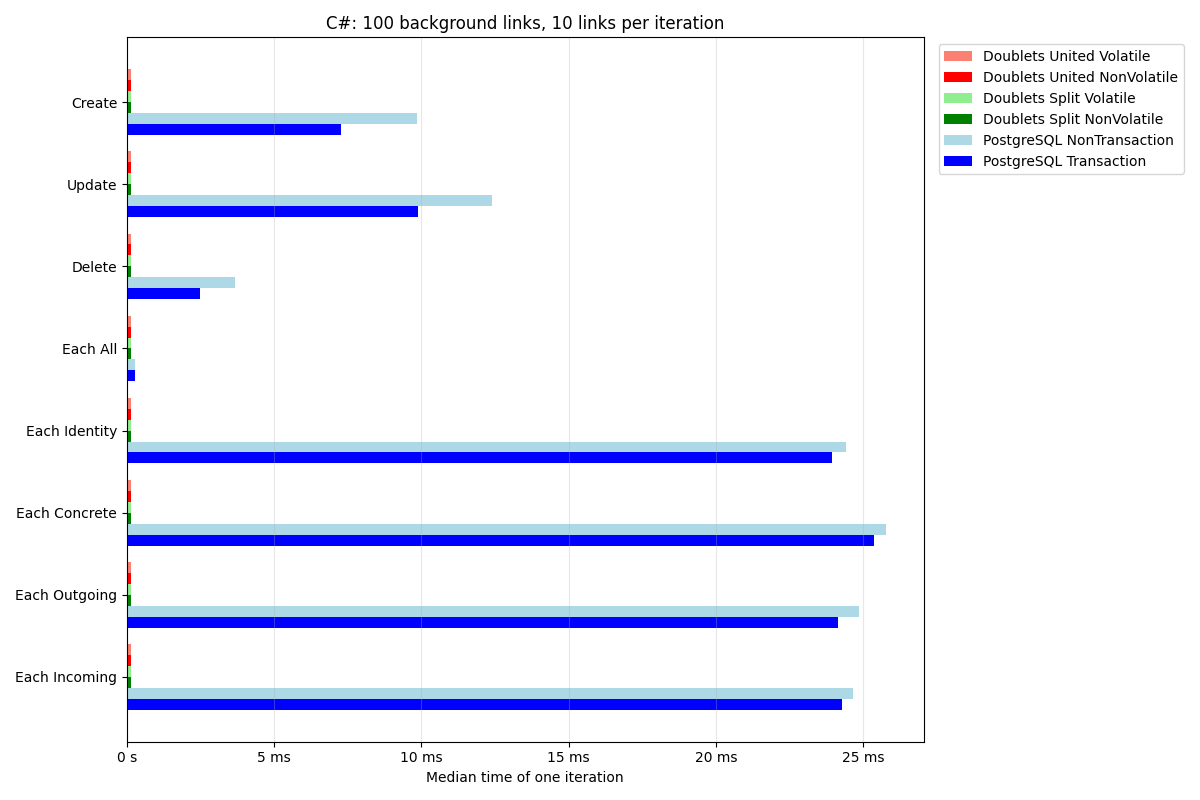
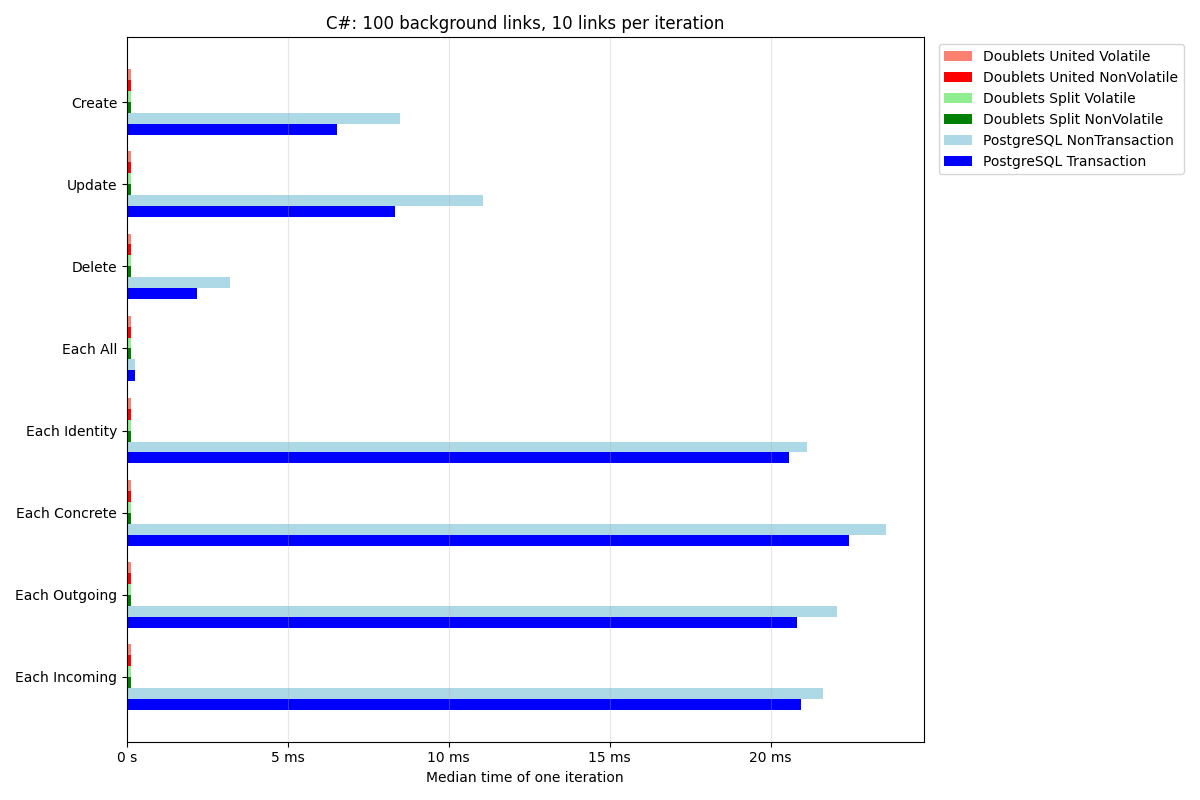
Update Rust and C# benchmark results

diff --git a/README.md b/README.md
@@ -30,41 +30,77 @@ Every generated table records the server and library versions, CPU, UTC date and
 
 #### Rust: 100 background links, 10 links per iteration
 
-_Median time of one iteration with 10 links. PostgreSQL 17.6 (Debian 17.6-2.pgdg13+1) through postgres 0.19.7; doublets 0.3.0. CPU AMD EPYC 7763 64-Core Processor (PostgreSQL) and AMD EPYC 9V45 96-Core Processor (Doublets), [GitHub Actions run](https://github.com/linksplatform/Comparisons.PostgreSQLVSDoublets/actions/runs/37548090422) on 2026-10-06T23:46:07+00:00._
+_Median time of one iteration with 10 links. PostgreSQL 17.6 (Debian 17.6-2.pgdg13+1) through postgres 0.19.7; doublets 0.3.0. CPU AMD EPYC 9V74 80-Core Processor, [GitHub Actions run](https://github.com/linksplatform/Comparisons.PostgreSQLVSDoublets/actions/runs/37549306074) on 2026-10-06T23:58:58+00:00._
 
 | Operation | Doublets United Volatile | Doublets United NonVolatile | Doublets Split Volatile | Doublets Split NonVolatile | PostgreSQL NonTransaction | PostgreSQL Transaction |
 | --- | ---: | ---: | ---: | ---: | ---: | ---: |
-| Create | 514 ns (21,300× faster) | 512 ns (21,400× faster) | 421 ns (26,000× faster) | 416 ns (26,300× faster) | 13.8 ms | **10.9 ms** |
-| Update | 1.69 µs (8,440× faster) | 1.62 µs (8,760× faster) | 583 ns (24,400× faster) | 583 ns (24,400× faster) | 17.5 ms | **14.2 ms** |
-| Delete | 729 ns (5,000× faster) | 736 ns (4,960× faster) | 771 ns (4,730× faster) | 796 ns (4,580× faster) | 5.02 ms | **3.65 ms** |
-| Each All | 36 ns (10,300× faster) | 35 ns (10,600× faster) | 143 ns (2,600× faster) | 142 ns (2,620× faster) | 390 µs | **371 µs** |
-| Each Identity | 2.42 µs (14,600× faster) | 2.39 µs (14,800× faster) | 2.44 µs (14,500× faster) | 2.44 µs (14,500× faster) | 36.5 ms | **35.4 ms** |
-| Each Concrete | 2.85 µs (12,800× faster) | 2.83 µs (12,900× faster) | 3.12 µs (11,700× faster) | 3.13 µs (11,700× faster) | 37.7 ms | **36.6 ms** |
-| Each Outgoing | 3.39 µs (10,400× faster) | 3.34 µs (10,600× faster) | 2.72 µs (13,000× faster) | 2.73 µs (13,000× faster) | 36.3 ms | **35.4 ms** |
-| Each Incoming | 3.42 µs (10,400× faster) | 3.37 µs (10,600× faster) | 2.76 µs (12,900× faster) | 2.75 µs (13,000× faster) | 36.9 ms | **35.6 ms** |
+| Create | 846 ns (8,260× faster) | 838 ns (8,340× faster) | 721 ns (9,690× faster) | 722 ns (9,680× faster) | 9.36 ms | **6.99 ms** |
+| Update | 2.54 µs (3,600× faster) | 2.58 µs (3,550× faster) | 819 ns (11,200× faster) | 824 ns (11,100× faster) | 11.9 ms | **9.14 ms** |
+| Delete | 1.18 µs (2,010× faster) | 1.17 µs (2,040× faster) | 1.33 µs (1,780× faster) | 1.3 µs (1,830× faster) | 3.49 ms | **2.37 ms** |
+| Each All | 54 ns (4,700× faster) | 54 ns (4,700× faster) | 258 ns (984× faster) | 240 ns (1,060× faster) | 272 µs | **254 µs** |
+| Each Identity | 3.41 µs (6,520× faster) | 3.38 µs (6,570× faster) | 3.46 µs (6,430× faster) | 3.46 µs (6,430× faster) | 23.8 ms | **22.2 ms** |
+| Each Concrete | 4.3 µs (5,570× faster) | 4.27 µs (5,600× faster) | 4.66 µs (5,140× faster) | 4.65 µs (5,150× faster) | 25.1 ms | **23.9 ms** |
+| Each Outgoing | 5.08 µs (4,480× faster) | 5.04 µs (4,520× faster) | 3.8 µs (5,980× faster) | 3.8 µs (5,990× faster) | 23.9 ms | **22.8 ms** |
+| Each Incoming | 5.06 µs (4,410× faster) | 5.06 µs (4,410× faster) | 3.88 µs (5,760× faster) | 3.88 µs (5,750× faster) | 24 ms | **22.3 ms** |
 
 ![Rust, 100 background links, 10 links per iteration, linear scale](Docs/bench_rust_100.png)
 ![Rust, 100 background links, 10 links per iteration, log scale](Docs/bench_rust_log_scale_100.png)
+
+#### Rust: 1,000 background links, 100 links per iteration
+
+_Median time of one iteration with 100 links. PostgreSQL 17.6 (Debian 17.6-2.pgdg13+1) through postgres 0.19.7; doublets 0.3.0. CPU AMD EPYC 9V45 96-Core Processor (PostgreSQL) and INTEL(R) XEON(R) PLATINUM 8573C (Doublets), [GitHub Actions run](https://github.com/linksplatform/Comparisons.PostgreSQLVSDoublets/actions/runs/37549306074) on 2026-10-06T23:58:48+00:00._
+
+| Operation | Doublets United Volatile | Doublets United NonVolatile | Doublets Split Volatile | Doublets Split NonVolatile | PostgreSQL NonTransaction | PostgreSQL Transaction |
+| --- | ---: | ---: | ---: | ---: | ---: | ---: |
+| Create | 10.3 µs (4,730× faster) | 10.3 µs (4,720× faster) | 6.46 µs (7,550× faster) | 6.37 µs (7,650× faster) | 89.6 ms | **48.8 ms** |
+| Update | 33 µs (1,870× faster) | 33.8 µs (1,820× faster) | 7.78 µs (7,920× faster) | 7.74 µs (7,960× faster) | 91 ms | **61.6 ms** |
+| Delete | 17.3 µs (866× faster) | 17.2 µs (868× faster) | 11.8 µs (1,270× faster) | 11.9 µs (1,260× faster) | 27.2 ms | **15 ms** |
+| Each All | 682 ns (571× faster) | 372 ns (1,050× faster) | 2.07 µs (188× faster) | 2.08 µs (188× faster) | 398 µs | **389 µs** |
+| Each Identity | 28.9 µs (5,150× faster) | 28.9 µs (5,150× faster) | 28.6 µs (5,210× faster) | 28.8 µs (5,170× faster) | **149 ms** | 149 ms |
+| Each Concrete | 69.9 µs (2,220× faster) | 69.9 µs (2,220× faster) | 43.5 µs (3,570× faster) | 43.1 µs (3,600× faster) | 157 ms | **155 ms** |
+| Each Outgoing | 82.3 µs (1,800× faster) | 82.2 µs (1,800× faster) | 36.6 µs (4,030× faster) | 36.2 µs (4,090× faster) | 153 ms | **148 ms** |
+| Each Incoming | 83.2 µs (1,730× faster) | 84.1 µs (1,710× faster) | 34.7 µs (4,140× faster) | 34.9 µs (4,120× faster) | 150 ms | **144 ms** |
+
+![Rust, 1,000 background links, 100 links per iteration, linear scale](Docs/bench_rust_1000.png)
+![Rust, 1,000 background links, 100 links per iteration, log scale](Docs/bench_rust_log_scale_1000.png)
 
 ### C#
 
 #### C#: 100 background links, 10 links per iteration
 
-_Median time of one iteration with 10 links. PostgreSQL 17.6 (Debian 17.6-2.pgdg13+1) through Npgsql 10.0.0; Platform.Data.Doublets 0.18.1. CPU AMD EPYC 7763 64-Core Processor (PostgreSQL) and Intel(R) Xeon(R) 6973P-C (Doublets), [GitHub Actions run](https://github.com/linksplatform/Comparisons.PostgreSQLVSDoublets/actions/runs/37548090422) on 2026-10-06T23:45:47+00:00._
+_Median time of one iteration with 10 links. PostgreSQL 17.6 (Debian 17.6-2.pgdg13+1) through Npgsql 10.0.0; Platform.Data.Doublets 0.18.1. CPU AMD EPYC 9V74 80-Core Processor (PostgreSQL) and Intel(R) Xeon(R) 6973P-C (Doublets), [GitHub Actions run](https://github.com/linksplatform/Comparisons.PostgreSQLVSDoublets/actions/runs/37549306074) on 2026-10-06T23:58:34+00:00._
 
 | Operation | Doublets United Volatile | Doublets United NonVolatile | Doublets Split Volatile | Doublets Split NonVolatile | PostgreSQL NonTransaction | PostgreSQL Transaction |
 | --- | ---: | ---: | ---: | ---: | ---: | ---: |
-| Create | 2.79 µs (2,600× faster) | 2.87 µs (2,530× faster) | 418 ns (17,400× faster) | 1.24 µs (5,830× faster) | 9.85 ms | **7.26 ms** |
-| Update | 3.39 µs (2,920× faster) | 3.39 µs (2,920× faster) | 235 ns (42,100× faster) | 223 ns (44,400× faster) | 12.4 ms | **9.9 ms** |
-| Delete | 1.33 µs (1,860× faster) | 1.41 µs (1,760× faster) | 525 ns (4,710× faster) | 1.17 µs (2,110× faster) | 3.66 ms | **2.47 ms** |
-| Each All | 1.13 µs (245× faster) | 1.12 µs (248× faster) | 906 ns (306× faster) | 908 ns (305× faster) | **277 µs** | 284 µs |
-| Each Identity | 606 ns (39,500× faster) | 619 ns (38,700× faster) | 815 ns (29,400× faster) | 789 ns (30,400× faster) | 24.4 ms | **24 ms** |
-| Each Concrete | 705 ns (36,000× faster) | 842 ns (30,100× faster) | 763 ns (33,300× faster) | 756 ns (33,600× faster) | 25.8 ms | **25.4 ms** |
-| Each Outgoing | 1.08 µs (22,300× faster) | 1.12 µs (21,500× faster) | 911 ns (26,500× faster) | 977 ns (24,700× faster) | 24.9 ms | **24.1 ms** |
-| Each Incoming | 2.1 µs (11,500× faster) | 2.21 µs (11,000× faster) | 844 ns (28,800× faster) | 840 ns (28,900× faster) | 24.7 ms | **24.3 ms** |
+| Create | 3.14 µs (2,080× faster) | 3.12 µs (2,100× faster) | 593 ns (11,000× faster) | 1.11 µs (5,890× faster) | 8.47 ms | **6.54 ms** |
+| Update | 3.94 µs (2,110× faster) | 3.79 µs (2,200× faster) | 439 ns (19,000× faster) | 379 ns (22,000× faster) | 11.1 ms | **8.34 ms** |
+| Delete | 1.7 µs (1,290× faster) | 1.65 µs (1,320× faster) | 1.14 µs (1,910× faster) | 1.39 µs (1,570× faster) | 3.2 ms | **2.18 ms** |
+| Each All | 1.36 µs (184× faster) | 1.3 µs (192× faster) | 973 ns (257× faster) | 1.01 µs (248× faster) | 268 µs | **250 µs** |
+| Each Identity | 1.91 µs (10,800× faster) | 1.53 µs (13,400× faster) | 1.81 µs (11,400× faster) | 1.73 µs (11,900× faster) | 21.1 ms | **20.6 ms** |
+| Each Concrete | 1.47 µs (15,300× faster) | 1.61 µs (13,900× faster) | 1.95 µs (11,500× faster) | 1.9 µs (11,800× faster) | 23.6 ms | **22.4 ms** |
+| Each Outgoing | 2.24 µs (9,310× faster) | 2.33 µs (8,950× faster) | 1.71 µs (12,200× faster) | 1.9 µs (10,900× faster) | 22.1 ms | **20.8 ms** |
+| Each Incoming | 4.01 µs (5,230× faster) | 3.82 µs (5,480× faster) | 2.06 µs (10,200× faster) | 2.14 µs (9,780× faster) | 21.6 ms | **20.9 ms** |
 
 ![C#, 100 background links, 10 links per iteration, linear scale](Docs/bench_csharp_100.png)
 ![C#, 100 background links, 10 links per iteration, log scale](Docs/bench_csharp_log_scale_100.png)
+
+#### C#: 1,000 background links, 100 links per iteration
+
+_Median time of one iteration with 100 links. PostgreSQL 17.6 (Debian 17.6-2.pgdg13+1) through Npgsql 10.0.0; Platform.Data.Doublets 0.18.1. CPU AMD EPYC 7763 64-Core Processor (PostgreSQL) and INTEL(R) XEON(R) PLATINUM 8573C (Doublets), [GitHub Actions run](https://github.com/linksplatform/Comparisons.PostgreSQLVSDoublets/actions/runs/37549306074) on 2026-10-06T23:58:23+00:00._
+
+| Operation | Doublets United Volatile | Doublets United NonVolatile | Doublets Split Volatile | Doublets Split NonVolatile | PostgreSQL NonTransaction | PostgreSQL Transaction |
+| --- | ---: | ---: | ---: | ---: | ---: | ---: |
+| Create | 46.7 µs (1,560× faster) | 47.8 µs (1,520× faster) | 14.5 µs (5,020× faster) | 14.9 µs (4,880× faster) | 101 ms | **72.7 ms** |
+| Update | 68.9 µs (1,430× faster) | 68.6 µs (1,440× faster) | 4.58 µs (21,500× faster) | 4.76 µs (20,700× faster) | 126 ms | **98.7 ms** |
+| Delete | 17.5 µs (1,390× faster) | 19.9 µs (1,220× faster) | 14 µs (1,740× faster) | 14.5 µs (1,680× faster) | 37.3 ms | **24.4 ms** |
+| Each All | 13.2 µs (49.4× faster) | 13.3 µs (49.1× faster) | 10.7 µs (60.8× faster) | 11 µs (59.3× faster) | 715 µs | **653 µs** |
+| Each Identity | 16.6 µs (14,300× faster) | 16.9 µs (14,000× faster) | 20.2 µs (11,700× faster) | 19.6 µs (12,100× faster) | 244 ms | **236 ms** |
+| Each Concrete | 31.3 µs (8,050× faster) | 31.9 µs (7,890× faster) | 16.3 µs (15,500× faster) | 18.5 µs (13,600× faster) | 259 ms | **252 ms** |
+| Each Outgoing | 35.1 µs (6,840× faster) | 36.6 µs (6,550× faster) | 19.4 µs (12,400× faster) | 20.4 µs (11,800× faster) | 248 ms | **240 ms** |
+| Each Incoming | 123 µs (1,950× faster) | 122 µs (1,960× faster) | 19.6 µs (12,200× faster) | 19.7 µs (12,200× faster) | 243 ms | **239 ms** |
+
+![C#, 1,000 background links, 100 links per iteration, linear scale](Docs/bench_csharp_1000.png)
+![C#, 1,000 background links, 100 links per iteration, log scale](Docs/bench_csharp_log_scale_1000.png)
 
 <!-- markdownlint-restore -->
 <!-- results:end -->
